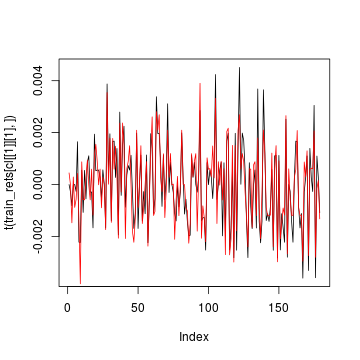
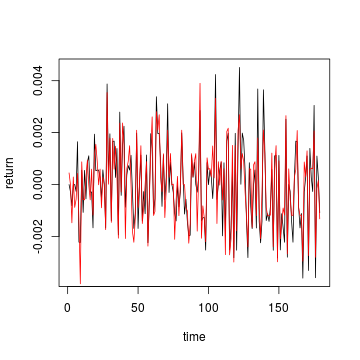
typo fix

Changed region(s): [[0.0, 0.3056, 0.0611, 0.6417], [0.4889, 0.9167, 0.5806, 0.9472]]

diff --git a/index.html b/index.html
@@ -135,7 +135,7 @@ length(cl)
 
 <pre><code class="r">source(&quot;loadData.R&quot;)
 cl &lt;- cluster.correlations(train_rets[1:10000,],0.9)
-plot ( t( train_rets[ cl[[1]][1], ] ), type=&quot;l&quot; )
+plot ( t( train_rets[ cl[[1]][1], ] ), type=&quot;l&quot;, xlab=&quot;time&quot;, ylab=&quot;return&quot;)
 lines( t( train_rets[ cl[[1]][2], ] ), col=&quot;red&quot; )
 </code></pre>
 
@@ -158,7 +158,7 @@ problem sizes, the intrinsically quadratic running time makes such scalability p
 
 <ul>
 <li><p><a href="https://www.otexts.org/fpp">https://www.otexts.org/fpp</a> - canonical text book on time series by Rob Hyndman </p></li>
-<li><p><a href="http://robjhyndman.com/uwafiles">http://robjhyndman.com/uwafiles</a> - the same but in for of slides</p></li>
+<li><p><a href="http://robjhyndman.com/uwafiles">http://robjhyndman.com/uwafiles</a> - the same but in form of slides</p></li>
 <li><p><a href="http://a-little-book-of-r-for-time-series.readthedocs.org/en/latest/src/timeseries.html">A similar overview of time series analysis</a></p></li>
 <li><p><a href="http://robjhyndman.com/papers/characteristic-based-clustering-for-time-series-data/">Time series characteristics</a></p></li>
 <li><p><a href="https://www.kaggle.com/c/the-winton-stock-market-challenge/forums/t/18645/congratulations-thoughts-on-the-problem/106378">Few words on solution to the original competition</a></p></li>
